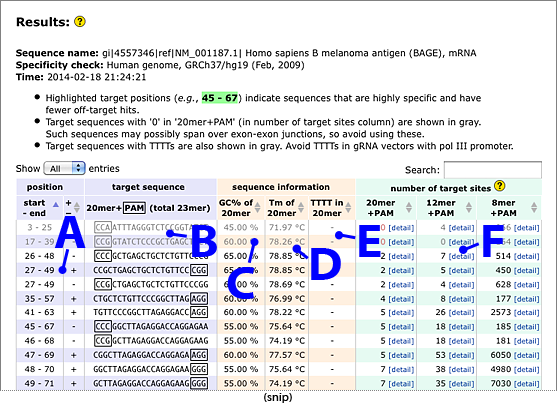
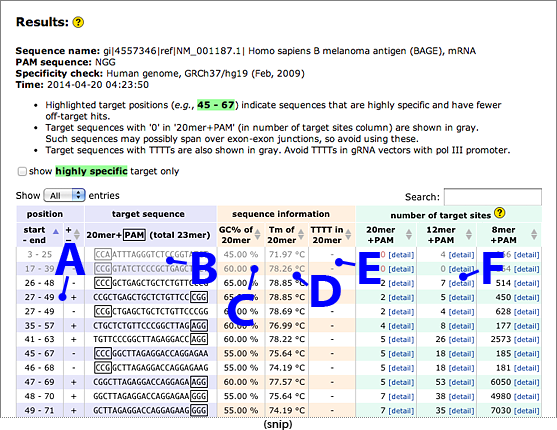
ヘルプとREADME.mdを更新、画像を差し替え
アップデートに対応

diff --git a/doc/index.html b/doc/index.html
@@ -170,7 +170,7 @@ CAACATCTTTTACACTAAAAAGCC
 	<li>Target sequences, 20mer + 3mer PAM (total 23mer).
 	<li>GC content of the target 20mer.
 	<li>Calculated Tm of the target 20mer.
-	<li>Presence or absence of TTTT (four contiguous T’s that cause pol III termination)
+	<li>Presence or absence of TTTT (four consecutive T’s that cause pol III termination)
 		in the target 20mer. Avoid TTTT in gRNA vectors with pol III promoter.
 	<li>Off-target search results against human genome. The number of target sites with perfect match
 		is shown. Note that the number displayed here includes both on-target and off-target sites.
@@ -188,7 +188,7 @@ CAACATCTTTTACACTAAAAAGCC
 	</ul>
 </ol>
 
-<img src='CRISPR_BAGE_result1.png' width=557 height=403 border=0>
+<img src='CRISPR_BAGE_result1.png' width=557 height=430 border=0>
 
 <ol type=A start=7>
 	<li>Only one match in 20mer+PAM and 12mer+PAM search. These targets are highly specific.<br>
@@ -312,9 +312,20 @@ CAACATCTTTTACACTAAAAAGCC
 	<td>Retrieve sequence mode. Set an accession<br>
 		number to retrieve sequence from GenBank<br>
 		instead of designing CRISPR/Cas targets.<br>
+		Genome location is also accepted for<br>
+		hg19, mm10, rn5, galGal4, xenTro3,<br>
+		danRer7, ci2, dm3, ce10 and sacCer3.<br>
 		The variable <i>userseq</i> should be null.<br>
 		The variable <i>format</i> should be 'html' or 'txt'.</td>
-	<td>NM_001187</td>
+	<td>NM_001187<br>
+		hg19:chr7:900000-901000</td>
+</tr>
+<tr>
+	<td><b><i>pam</i></b></td>
+	<td>Optional</td>
+	<td>An arbitrary 3 nt sequence using IUB codes<br>
+		can be specified.</td>
+	<td>NGG (default), NAG, ...</td>
 </tr>
 <tr>
 	<td><b><i>db</i></b></td>

diff --git a/doc/result.html b/doc/result.html
@@ -44,7 +44,7 @@
 	<li>Target sequences, 20mer + 3mer PAM (total 23mer).
 	<li>GC content of the target 20mer.
 	<li>Calculated Tm of the target 20mer.
-	<li>Presence or absence of TTTT (four contiguous T’s that cause pol III termination)
+	<li>Presence or absence of TTTT (four consecutive T’s that cause pol III termination)
 		in the target 20mer. Avoid TTTT in gRNA vectors with pol III promoter.
 	<li>Off-target search results against genomic sequence. The number of target sites with perfect match
 		is shown. Note that the number displayed here includes both on-target and off-target sites.
@@ -62,7 +62,7 @@
 	</ul>
 </ol>
 
-<img src='CRISPR_BAGE_result1.png' width=557 height=403 border=0>
+<img src='CRISPR_BAGE_result1.png' width=557 height=430 border=0>
 
 <ol type=A start=7>
 	<li>Only one match in 20mer+PAM and 12mer+PAM search. These targets are highly specific.<br>
